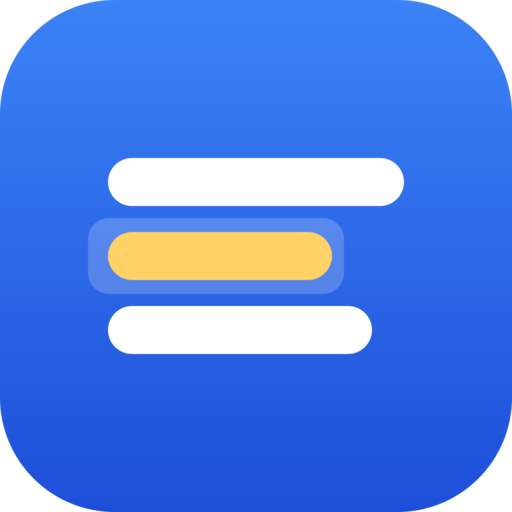
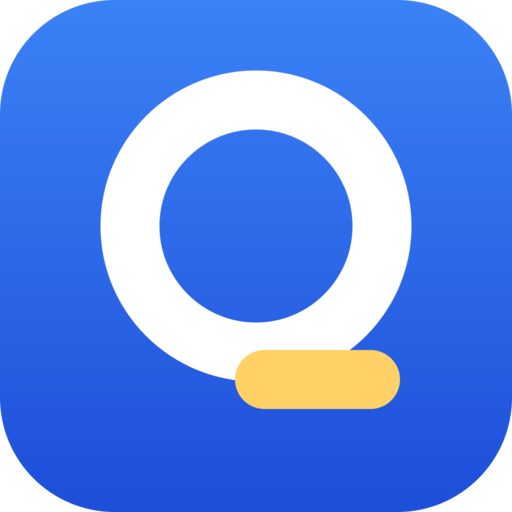
feat: 온보딩 화면을 한 문장 중심으로 다시 잡는다 (#8)
* chore: render the onboarding icon from the app icon artwork

Resources/Icon.png was still the Xcode template's placeholder — three bars —
while the app icon is the Q mark. Nothing showed it after the web view was
replaced, so it went unnoticed. gen-icons.sh now produces it from the same
SVG as every other slot.

* feat: lay the onboarding screen out around one sentence

The three-step column left the lower half of an iPhone screen empty and
read as documentation. The screen now centres the icon, the store
subtitle as the headline, one card with the two language pickers and the
pair's status, and the button that opens Settings. Same strings, same
state machine — only the layout and the ready-state label changed.

Changed region(s): [[0.1562, 0.125, 0.8125, 0.8125]]

diff --git a/apple/QuickGlot/Shared (App)/ViewController.swift b/apple/QuickGlot/Shared (App)/ViewController.swift
@@ -54,8 +54,9 @@ class ViewController: PlatformViewController {
         host.didMove(toParent: self)
 #elseif os(macOS)
         // The template window is sized for a small web view; the onboarding
-        // needs room for two pickers and the status row without scrolling.
-        preferredContentSize = NSSize(width: 520, height: 560)
+        // needs room for the icon, the language card and the button without
+        // scrolling.
+        preferredContentSize = NSSize(width: 520, height: 640)
 #endif
     }
 }
@@ -174,16 +175,21 @@ struct OnboardingView: View {
     @State private var prepareError: String?
 
     var body: some View {
-        ScrollView {
-            VStack(alignment: .leading, spacing: 20) {
-                header
-                enableSection
-                packSection
+        // The column is centred while it fits and scrolls once it does not —
+        // a fixed centre would push the button off a short window.
+        GeometryReader { proxy in
+            ScrollView {
+                VStack(spacing: 36) {
+                    hero
+                    languageSection
+                    enableSection
+                }
+                .padding(.horizontal, 32)
+                .padding(.vertical, 40)
+                .frame(maxWidth: 420)
+                .frame(maxWidth: .infinity, minHeight: proxy.size.height)
             }
-            .padding(24)
-            .frame(maxWidth: 520, alignment: .leading)
         }
-        .frame(maxWidth: .infinity, maxHeight: .infinity)
         .task { await loadLanguages() }
         .translationTask(configuration) { session in
             // Surfaces the system sheet. A normal return says only that the sheet
@@ -203,65 +209,77 @@ struct OnboardingView: View {
         .onDisappear { poll?.cancel() }
     }
 
-    private var header: some View {
-        VStack(alignment: .leading, spacing: 6) {
-            Text("QuickGlot").font(.largeTitle.bold())
-            Text(L.t("Select text in Safari and it is translated on device.", "Safari 에서 텍스트를 선택하면 기기 안에서 번역합니다."))
-                .foregroundStyle(.secondary)
+    /// The headline is the store subtitle, so the app, the listing and the
+    /// screenshots say the same thing.
+    private var hero: some View {
+        VStack(spacing: 24) {
+            appIcon
+            Text(L.t("Safari\nDrag to translate", "Safari\n드래그하면 바로 번역"))
+                .font(.title.bold())
+                .multilineTextAlignment(.center)
         }
     }
 
+    /// `Resources/Icon.png` is the same artwork as the app icon, rendered by
+    /// `scripts/gen-icons.sh`; the asset catalogue's icon set is not reliably
+    /// loadable by name on every platform, and this file already ships in both.
     @ViewBuilder
-    private var enableSection: some View {
-        VStack(alignment: .leading, spacing: 8) {
-            Text(L.t("1. Turn on the extension", "1. 확장 프로그램 켜기")).font(.headline)
-#if os(macOS)
-            Button(L.t("Open Safari Extension Settings", "Safari 확장 프로그램 설정 열기")) {
-                SFSafariApplication.showPreferencesForExtension(
-                    withIdentifier: extensionBundleIdentifier
-                ) { _ in }
+    private var appIcon: some View {
+        if let url = Bundle.main.url(forResource: "Icon", withExtension: "png") {
+#if os(iOS)
+            if let image = UIImage(contentsOfFile: url.path) {
+                Image(uiImage: image).resizable().frame(width: 96, height: 96)
             }
 #else
-            Text(L.t("Settings › Apps › Safari › Extensions › QuickGlot, then allow it on the sites you want.", "설정 › 앱 › Safari › 확장 프로그램 › QuickGlot 을 켠 뒤, 사용할 사이트에 권한을 허용하세요."))
-                .foregroundStyle(.secondary)
-#endif
-            if let extensionTarget, let language = languages.first(where: { code($0) == extensionTarget }) {
-                Label(
-                    L.t("The extension translates into \(name(language))", "확장은 \(name(language)) 로 번역합니다"),
-                    systemImage: "checkmark.circle"
-                )
-                .font(.callout)
-                .foregroundStyle(.secondary)
-            } else {
-                Text(L.t("The extension picks a language automatically. Choose a fixed one from its toolbar button if you prefer.", "확장은 번역할 언어를 자동으로 고릅니다. 고정하려면 툴바 버튼에서 선택하세요."))
-                    .font(.callout)
-                    .foregroundStyle(.secondary)
+            if let image = NSImage(contentsOf: url) {
+                Image(nsImage: image).resizable().frame(width: 96, height: 96)
             }
+#endif
         }
     }
 
-    private var packSection: some View {
-        VStack(alignment: .leading, spacing: 12) {
-            Text(L.t("2. Download the languages you need", "2. 필요한 언어 받기")).font(.headline)
-            Text(L.t("Downloaded once, then translation works offline.", "한 번 받아두면 이후에는 오프라인에서 번역됩니다."))
-                .font(.callout)
-                .foregroundStyle(.secondary)
+    private var languageSection: some View {
+        VStack(spacing: 8) {
+            VStack(spacing: 0) {
+                if languages.isEmpty {
+                    ProgressView()
+                        .frame(maxWidth: .infinity, minHeight: 52)
+                } else {
+                    languageRow("From", selection: $source, installed: sourceInstalled)
+                    Divider().padding(.leading, 16)
+                    languageRow("To", selection: $target, installed: targetInstalled)
+                    Divider().padding(.leading, 16)
+                    statusRow
+                        .padding(.horizontal, 16)
+                        .padding(.vertical, 12)
+                        .frame(maxWidth: .infinity, alignment: .leading)
+                }
+            }
+            .background(cardBackground, in: RoundedRectangle(cornerRadius: 12, style: .continuous))
 
-            if languages.isEmpty {
-                ProgressView().padding(.vertical, 8)
-            } else {
-                languageRow("From", selection: $source, installed: sourceInstalled)
-                languageRow("To", selection: $target, installed: targetInstalled)
-                Divider()
-                statusRow
+            // The extension's pinned target, read from the shared app group.
+            // Showing it is the point of sharing: the "To" row above is what the
+            // app downloads, and this says what the extension will actually use.
+            if let extensionTarget, let language = languages.first(where: { code($0) == extensionTarget }) {
+                Text(L.t("The extension translates into \(name(language)).", "확장은 \(name(language))로 번역합니다."))
+                    .font(.footnote)
+                    .foregroundStyle(.secondary)
             }
         }
         .onChange(of: source) { pairChanged() }
         .onChange(of: target) { pairChanged() }
     }
 
+    private var cardBackground: Color {
+#if os(iOS)
+        Color(.secondarySystemBackground)
+#else
+        Color(nsColor: .controlBackgroundColor)
+#endif
+    }
+
     /// Each language carries its own state, because a pair is often half ready
-    /// and L.t("Download", "받기") on the pair says nothing about which half is missing.
+    /// and a single "Download" on the pair says nothing about which half is missing.
     @ViewBuilder
     private func languageRow(
         _ label: String,
@@ -277,18 +295,60 @@ struct OnboardingView: View {
             }
             .labelsHidden()
             Spacer(minLength: 8)
+            // Icon only: the row is a picker, and a word next to it reads as a
+            // second control. The label survives for VoiceOver.
             switch installed {
             case .some(true):
-                Label(L.t("On device", "기기에 있음"), systemImage: "checkmark.circle.fill")
+                Image(systemName: "checkmark.circle.fill")
                     .foregroundStyle(.green)
-                    .font(.caption)
+                    .imageScale(.large)
+                    .accessibilityLabel(L.t("On device", "기기에 있음"))
             case .some(false):
-                Label(L.t("Not downloaded", "받지 않음"), systemImage: "arrow.down.circle")
-                    .foregroundStyle(.secondary)
-                    .font(.caption)
+                Image(systemName: "xmark.circle.fill")
+                    .foregroundStyle(.tertiary)
+                    .imageScale(.large)
+                    .accessibilityLabel(L.t("Not downloaded", "받지 않음"))
             case nil:
                 ProgressView().controlSize(.small)
             }
+        }
+        .padding(.horizontal, 16)
+        .frame(minHeight: 52)
+    }
+
+    @ViewBuilder
+    private var enableSection: some View {
+        VStack(spacing: 12) {
+#if os(macOS)
+            Button {
+                SFSafariApplication.showPreferencesForExtension(
+                    withIdentifier: extensionBundleIdentifier
+                ) { _ in }
+            } label: {
+                Text(L.t("Open Safari Extension Settings", "Safari 확장 프로그램 설정 열기"))
+                    .frame(maxWidth: .infinity)
+            }
+            .buttonStyle(.borderedProminent)
+            .controlSize(.large)
+#else
+            // iOS has no public URL for the Safari extensions page, so the button
+            // opens Settings and the path below does the rest. Pretending to deep
+            // link would land the user on the wrong screen with no explanation.
+            Button {
+                if let url = URL(string: UIApplication.openSettingsURLString) {
+                    UIApplication.shared.open(url)
+                }
+            } label: {
+                Text(L.t("Open Settings", "설정 열기"))
+                    .frame(maxWidth: .infinity)
+            }
+            .buttonStyle(.borderedProminent)
+            .controlSize(.large)
+            Text(L.t("Settings › Apps › Safari › Extensions › QuickGlot", "설정 › 앱 › Safari › 확장 프로그램 › QuickGlot"))
+                .font(.footnote)
+                .foregroundStyle(.secondary)
+                .multilineTextAlignment(.center)
+#endif
         }
     }
 
@@ -299,8 +359,11 @@ struct OnboardingView: View {
             HStack { ProgressView().controlSize(.small); Text(L.t("Checking…", "확인 중…")).foregroundStyle(.secondary) }
 
         case .ready:
-            Label(L.t("Ready — this pair translates offline", "준비됨 — 이 언어쌍은 오프라인에서 번역됩니다"), systemImage: "checkmark.circle.fill")
-                .foregroundStyle(.green)
+            Label {
+                Text(L.t("Ready offline", "오프라인 준비됨")).foregroundStyle(.secondary)
+            } icon: {
+                Image(systemName: "checkmark.circle.fill").foregroundStyle(.green)
+            }
 
         case .needsDownload:
             HStack {
